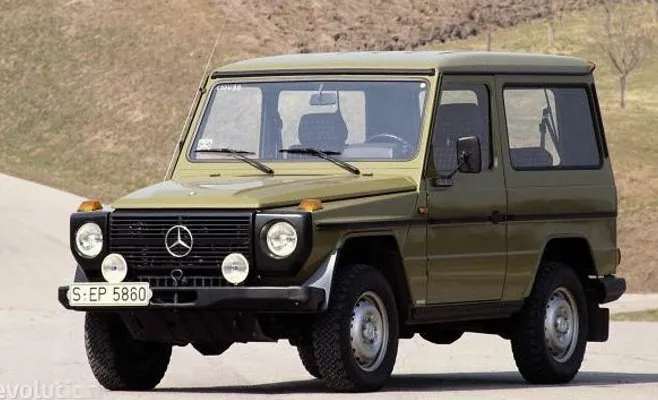
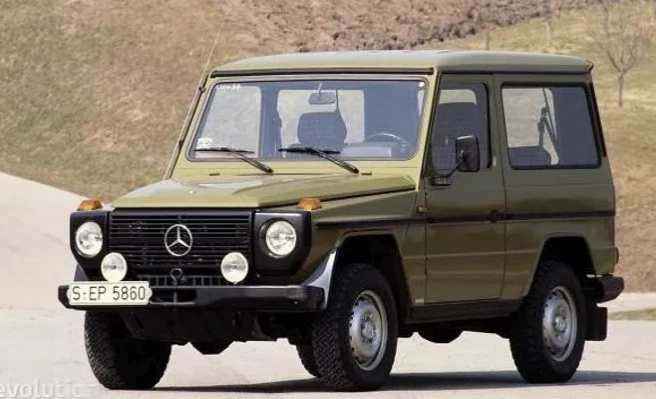
246

diff --git a/pic/en_mb_img_g.html b/pic/en_mb_img_g.html
@@ -379,8 +379,8 @@
 					</div>
 					<section>
 						<h5>Short</h5>
-						<a href="full/g/w460k_f.jpg"><img loading="lazy" src="style/g/w460k_f.webp" alt="Mercedes,W460,G-class,short,Front view" width="658" height="400"></a>
-						<a href="full/g/w460k_r.jpg"><img loading="lazy" src="style/g/w460k_r.webp" alt="Mercedes,W460,G-class,short,Rear view" width="550" height="400"></a><br>
+						<a href="full/g/w460k_f.jpg"><img loading="lazy" src="style/g/w460k_f.webp" alt="Mercedes,W460,G-class,short,Front view" width="656" height="399"></a>
+						<a href="full/g/w460k_r.jpg"><img loading="lazy" src="style/g/w460k_r.webp" alt="Mercedes,W460,G-class,short,Rear view" width="549" height="399"></a><br>
 						<a href="full/g/w460k_d.jpg"><img loading="lazy" src="style/g/w460k_d.webp" alt="Mercedes,W460,G-class,short,Dashboard" width="675" height="400"></a>
 						<a href="full/g/w460k_tp.jpg"><img loading="lazy" src="style/g/w460k_tp.webp" alt="Mercedes,W460,G-class,perspective view" width="531" height="400"></a>
 						<h5>Cabriolet</h5>
